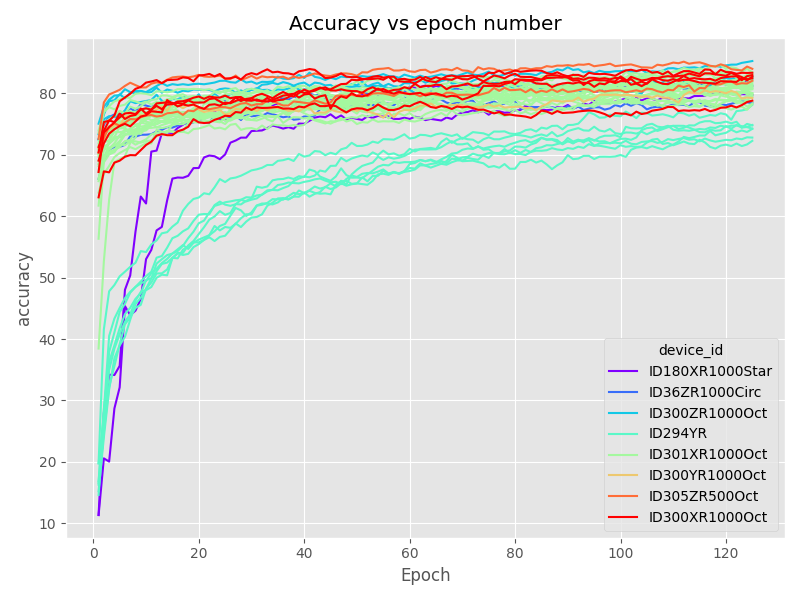
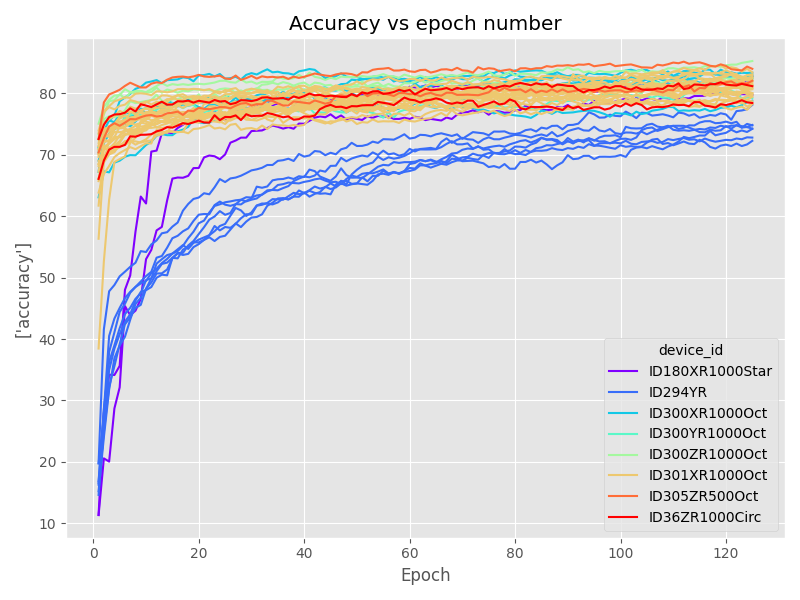
Update plots
Also update some scripts

diff --git a/utils/src/plot_utils.py b/utils/src/plot_utils.py
@@ -25,6 +25,9 @@ def create_parser():
     common_parser.add_argument("input", type=str, help="Path to the input file or directory")
     # plot appearance arguments
     common_parser.add_argument('--title', type=str, help='Title of the plot', default=None)
+    common_parser.add_argument('--xlabel', type=str, help='X axis label', default=None)
+    common_parser.add_argument('--ylabel', type=str, help='Y axis label', default=None)
+    common_parser.add_argument('--huelabel', type=str, help='Hue label', default=None)
     common_parser.add_argument('--xlim', type=float, nargs=2, help='X axis limits', default=None)
     common_parser.add_argument('--ylim', type=float, nargs=2, help='Y axis limits', default=None)
     common_parser.add_argument('--scale', type=str, choices=['linear', 'log-log', 'log-lin', 'lin-log'], default='linear', help='Scale of the axes')
@@ -161,6 +164,31 @@ def read_average_data(path):
     data.rename(columns={'avgAccuracy': 'accuracy'}, inplace=True)
     return data
 
+def set_axis_properties(ax, args):
+    """
+    Set the properties of the axis based on the arguments.
+
+    Args:
+        ax (matplotlib.axes.Axes): The axis to set the properties for
+        args (argparse.Namespace): The arguments passed to the function
+
+    Returns:
+        None
+    """
+    if type(ax) is not plt.Axes:
+        print("Error: ax argument to set_axis_properties() must be a matplotlib Axes object.")
+        exit(1)
+    
+    xscale = 'linear' if args.scale in ['linear', 'log-lin'] else 'log'
+    yscale = 'linear' if args.scale in ['linear', 'lin-log'] else 'log'
+    title = args.title if args.title is not None else f'{args.input}'
+    xlabel = args.xlabel if args.xlabel is not None else args.x
+    ylabel = args.ylabel if args.ylabel is not None else args.y
+    if type(ylabel) is list:
+        ylabel = ', '.join(ylabel)
+
+    ax.set(xlabel=xlabel, ylabel=ylabel, xscale=xscale, yscale=yscale, title=title, aspect=args.aspect, xlim=args.xlim, ylim=args.ylim)
+
 def plot_summary(args):
 
     isFile = os.path.isfile(args.input)
@@ -168,11 +196,6 @@ def plot_summary(args):
     if not isFile and not isDir:
         print(f"Error: The file or directory {args.input} does not exist.")
         exit(1)
-
-    xscale = 'linear' if args.scale in ['linear', 'log-lin'] else 'log'
-    yscale = 'linear' if args.scale in ['linear', 'lin-log'] else 'log'
-
-    title = args.title if args.title is not None else f'{args.input}'
 
     if isFile:
         data = pd.read_csv(args.input)
@@ -195,13 +218,14 @@ def plot_summary(args):
 
         fig, ax = plt.subplots(figsize=(8, 6))
 
+        huelabel = args.huelabel if args.huelabel is not None else args.hue
         if args.hue is not None and data[args.hue].dtype == 'float64':
             norm = clr.LogNorm() if args.huescale == 'log' else clr.Normalize()       
             cmap = plt.cm.plasma
             colors = cmap(norm(data[args.hue].values))
 
             cbar = plt.colorbar(cm.ScalarMappable(cmap=cmap, norm=norm), ax=ax)
-            cbar.set_label(args.hue)
+            cbar.set_label(huelabel)
 
             if xerr is None:
                 xerr = np.zeros(len(data[args.x]))
@@ -218,9 +242,10 @@ def plot_summary(args):
             for unique_type, color in zip(unique_types, colors):
                 type_data = data[data[args.hue] == unique_type] if args.hue is not None else data
                 ax.errorbar(type_data[args.x], type_data[args.y], xerr=xerr, yerr=yerr, fmt='o', capsize=2, color=color, ecolor=color, label=unique_type)
-            ax.legend(title=args.hue)
+            ax.legend(title=huelabel)
 
-        ax.set(xlabel=args.x, ylabel=args.y, xscale=xscale, yscale=yscale, title=title, aspect=args.aspect, xlim=args.xlim, ylim=args.ylim)
+        set_axis_properties(ax, args)
+
         if args.savefig is not None:
             plt.tight_layout()
             plt.savefig(args.savefig, facecolor=fig.get_facecolor())
@@ -229,7 +254,7 @@ def plot_summary(args):
     if args.all:
         cols = ['stepSize','pulseWidth','onOffRatio','accuracy', 'A_LTP', 'A_LTD']
         g = sns.pairplot(data, hue=args.hue, vars=cols)
-        g.figure.suptitle(title)
+        g.figure.suptitle(args.title if args.title is not None else f'{args.input}')
         if args.savefig is not None:
             plt.tight_layout()
             plt.savefig(args.savefig)
@@ -247,11 +272,6 @@ def plot_epochs(args):
     else:
         print(f"Error: The file or directory {args.input} does not exist.")
         exit(1)
-
-    xscale = 'linear' if args.scale in ['linear', 'log-lin'] else 'log'
-    yscale = 'linear' if args.scale in ['linear', 'lin-log'] else 'log'
-    
-    title = args.title if args.title is not None else f'{args.input}'
 
     data = dict()
     epoch_data = {"epochs": [],
@@ -313,6 +333,7 @@ def plot_epochs(args):
 
     fig, ax = plt.subplots(figsize=(8, 6))
 
+    huelabel = args.huelabel if args.huelabel is not None else args.hue
     if args.hue is not None and data[args.hue].dtype == 'float64' and mode == 'dir':
         cmap = colormaps.get_cmap('plasma')
         if args.huescale == 'log':
@@ -324,7 +345,7 @@ def plot_epochs(args):
             ax.plot(epochs[i], yvals[i], color=color)
         sm = cm.ScalarMappable(cmap=cmap, norm=norm)
         sm.set_array([])
-        fig.colorbar(sm, label=args.hue, ax=ax)
+        fig.colorbar(sm, label=huelabel, ax=ax)
 
     elif mode == 'dir':
         unique_types = data[args.hue].unique() if args.hue is not None else ['data']
@@ -337,16 +358,16 @@ def plot_epochs(args):
         # make sure repeated labels are only shown once
         handles, labels = ax.get_legend_handles_labels()
         by_label = dict(zip(labels, handles))
-        ax.legend(by_label.values(), by_label.keys(), title=args.hue)
+        ax.legend(by_label.values(), by_label.keys(), title=huelabel)
 
     else:
         labels = args.y
         for i in range(len(yvals)):
             ax.plot(epochs, yvals[i], label=labels[i])
-        ax.legend()
+        ax.legend(title=huelabel)
         
-
-    ax.set(xlabel='Epoch', ylabel=args.y, xscale=xscale, yscale=yscale, title=title, aspect=args.aspect, xlim=args.xlim, ylim=args.ylim)
+    args.xlabel = 'Epochs'
+    set_axis_properties(ax, args)
 
     if args.savefig is not None:
         plt.tight_layout()

diff --git a/utils/src/run_neurosim_to_csv.py b/utils/src/run_neurosim_to_csv.py
@@ -49,6 +49,7 @@ import os
 import csv
 import argparse
 import numpy as np
+import re
 
 def get_data_from_file(file, d_only=False):
     with open(file, 'r') as f:
@@ -75,6 +76,15 @@ def get_data_from_file(file, d_only=False):
                 d[key.strip()] = val.strip()
         except:
             print(f"Header missing in file {file}. Output will be incomplete.")
+            d['device_name'] = None
+            d['device_id'] = None
+            d['test_date'] = None
+            d['test_time'] = None
+            # find all numeric values in the filename and put them in the dictionary as val1, val2, ...
+            filename = os.path.basename(file)
+            numeric_values = re.findall(r'\d+\.\d+|\d+', filename)
+            for i,val in enumerate(numeric_values):
+                d[f'val{i+1}'] = float(val)
 
         epoch_num = []
         accuracy = []
